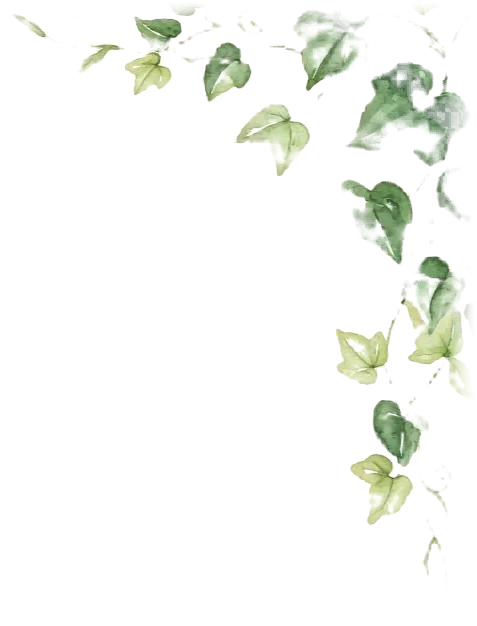
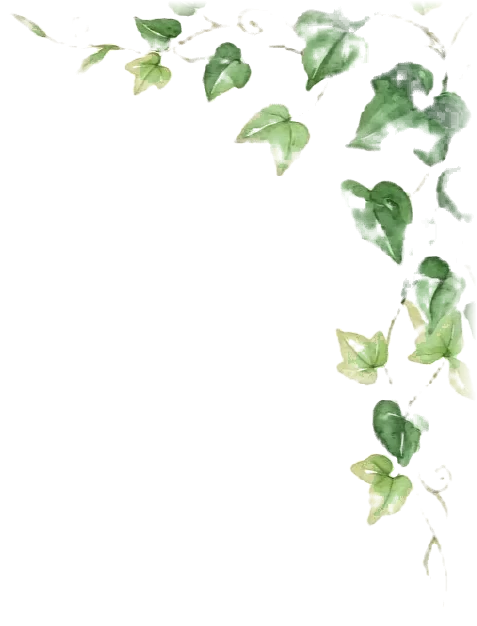
fix(herbarium): 让水彩藤蔓真正肉眼可见，首页不再缺席
用户反馈「还是没看出来」：三重削弱叠加 —— 默认档案风整块隐藏、首页被硬排除、浅绿素材再乘低 opacity 又被父层向下 mask 削一刀。本轮只把已有那一枝做实，不加元素：素材 alpha 与绿的浓度提实并羽化右缘切断的碎叶；渐隐 mask 收进花光层；贴边位置内收；opacity 上调；首页取消排除、固定最饱满的 2 号枝并单独落右下角避开手绘题图。验收：首页变化像素 3715→24460、手机 3146→9841，双主题双视口 0 pageerror，5 枝分布 4/7/5/5/5 仍全轮换。

diff --git a/src/app/globals.css b/src/app/globals.css
@@ -780,12 +780,15 @@ html[data-theme="herbarium"]:not(:has(.theme-locked)) .site-flora-field {
   z-index: -1;
   pointer-events: none;
   overflow: hidden;
-  mask-image: linear-gradient(to bottom, #000 0%, rgba(0, 0, 0, 0.6) 44%, transparent 96%);
-  -webkit-mask-image: linear-gradient(to bottom, #000 0%, rgba(0, 0, 0, 0.6) 44%, transparent 96%);
 }
+/* 向下渐隐只作用于花光那一层。原先挂在 .site-flora-field 上，会把同层的
+   压花也一起削掉：藤蔓刚好处在 4%~14% 往下 340~460px 的区间，下半截被
+   mask 压到 0.6 以下，叠上水彩本身的淡，整枝就消失在纸里了。 */
 .site-flora-plane {
   position: absolute;
   inset: 0;
+  mask-image: linear-gradient(to bottom, #000 0%, rgba(0, 0, 0, 0.6) 44%, transparent 96%);
+  -webkit-mask-image: linear-gradient(to bottom, #000 0%, rgba(0, 0, 0, 0.6) 44%, transparent 96%);
 }
 /* 复用相册页调过的 .flora-bloom-1/2 定位与浓度：主光只罩标题那一带、
    绿不与红横向重叠。第三片（104vh 的赭红）在这一屏里看不见，全站层压根不渲染。 */
@@ -827,35 +830,36 @@ html[data-theme="herbarium"]:not(:has(.theme-locked)) .herb-sprig {
   height: min(30vw, 340px);
   pointer-events: none;
   z-index: 1;
-  opacity: 0.58;
+  opacity: 0.78;
 }
 /* 5 枝长宽比差三倍（1.87 / 1.21 / 0.76 / 0.37 / 0.53）。统一塞进横框用
    contain，两根细长垂藤会被压到只剩 ~110px 宽，肉眼看等于没画。
    所以按 data-variant 给各自的框：横枝用横框、垂枝用竖框，面积预算接近。
    透明度按每枝绿像素密度反向补一点，密丛压淡、淡枝提亮，视觉重量才齐。 */
 html[data-theme="herbarium"]:not(:has(.theme-locked)) .herb-sprig[data-variant="2"] {
-  opacity: 0.5;
+  opacity: 0.7;
 }
 html[data-theme="herbarium"]:not(:has(.theme-locked)) .herb-sprig[data-variant="3"] {
   width: min(24vw, 290px);
   height: min(30vw, 360px);
-  opacity: 0.66;
+  opacity: 0.82;
 }
 html[data-theme="herbarium"]:not(:has(.theme-locked)) .herb-sprig[data-variant="4"] {
   width: min(16vw, 200px);
   height: min(34vw, 460px);
-  opacity: 0.56;
+  opacity: 0.76;
 }
 html[data-theme="herbarium"]:not(:has(.theme-locked)) .herb-sprig[data-variant="5"] {
   width: min(19vw, 250px);
   height: min(34vw, 460px);
-  opacity: 0.72;
+  opacity: 0.86;
 }
+/* 内收：原先 -1rem 贴边，加上父层 overflow:hidden，整枝有近一半被裁在视口外 */
 html[data-theme="herbarium"]:not(:has(.theme-locked)) .herb-sprig[data-side="right"] {
-  right: -1rem;
+  right: clamp(1rem, 3vw, 3.5rem);
 }
 html[data-theme="herbarium"]:not(:has(.theme-locked)) .herb-sprig[data-side="left"] {
-  left: -1rem;
+  left: clamp(1rem, 3vw, 3.5rem);
   transform: scaleX(-1);
 }
 html[data-theme="herbarium"]:not(:has(.theme-locked)) .herb-sprig[data-lift="1"] {
@@ -878,31 +882,68 @@ html[data-theme="herbarium"]:not(:has(.theme-locked)) .herb-sprig:is([data-varia
   html[data-theme="herbarium"]:not(:has(.theme-locked)) .herb-sprig {
     width: 62vw;
     height: 52vw;
-    opacity: 0.52;
+    opacity: 0.76;
   }
   html[data-theme="herbarium"]:not(:has(.theme-locked)) .herb-sprig[data-variant="2"] {
-    opacity: 0.46;
+    opacity: 0.7;
   }
   html[data-theme="herbarium"]:not(:has(.theme-locked)) .herb-sprig[data-variant="3"] {
     width: 52vw;
     height: 62vw;
-    opacity: 0.6;
+    opacity: 0.8;
   }
   html[data-theme="herbarium"]:not(:has(.theme-locked)) .herb-sprig[data-variant="4"] {
     width: 38vw;
     height: 74vw;
-    opacity: 0.5;
+    opacity: 0.74;
   }
   html[data-theme="herbarium"]:not(:has(.theme-locked)) .herb-sprig[data-variant="5"] {
     width: 46vw;
     height: 74vw;
-    opacity: 0.66;
+    opacity: 0.84;
   }
   html[data-theme="herbarium"]:not(:has(.theme-locked)) .herb-sprig[data-side="right"] {
-    right: -2rem;
+    right: 0.5rem;
   }
   html[data-theme="herbarium"]:not(:has(.theme-locked)) .herb-sprig[data-side="left"] {
-    left: -2rem;
+    left: 0.5rem;
+  }
+}
+
+/* 首页单独落位：手绘题图的藤蔓从左下斜穿到右上，右下角是唯一干净的纸面。
+   放在首屏偏下，既不压字标，也避开题图自带的粉晕（左侧）与绿藤（中右）。 */
+html[data-theme="herbarium"]:not(:has(.theme-locked)) .herb-sprig[data-home="1"] {
+  top: auto;
+  bottom: 4%;
+  right: 5vw;
+  left: auto;
+  width: min(30vw, 400px);
+  height: min(28vw, 350px);
+  transform: none;
+  opacity: 0.8;
+}
+/* 2 号枝右缘那列被画幅切断的碎叶，已在素材生成脚本里羽化到真透明
+   （_sprig_boost.cjs 的 RIGHT_FEATHER），这里只需把图压到框底。 */
+html[data-theme="herbarium"]:not(:has(.theme-locked)) .herb-sprig[data-home="1"] img {
+  object-position: center bottom;
+  /* 素材右缘已羽化，但 contain 缩放后最右仍有一列浅影，
+     再从 74% 起柔收到透明，保证纸面上无直边。 */
+  mask-image: linear-gradient(to right, #000 74%, transparent 98%);
+  -webkit-mask-image: linear-gradient(to right, #000 74%, transparent 98%);
+}
+@media (max-width: 640px) {
+  html[data-theme="herbarium"]:not(:has(.theme-locked)) .herb-sprig[data-home="1"] {
+    bottom: 3%;
+    right: 3vw;
+    width: 62vw;
+    height: 56vw;
+    opacity: 0.76;
+  }
+  /* 手机首屏被正文占满，2 号枝顶端的散叶会飘进段落里。斜向渐隐只留
+     右下那丛密叶，左上完全退场，右缘也不会出现直边。 */
+  html[data-theme="herbarium"]:not(:has(.theme-locked)) .herb-sprig[data-home="1"] img {
+    mask-image: linear-gradient(135deg, transparent 0%, rgba(0, 0, 0, 0.35) 32%, #000 62%);
+    -webkit-mask-image: linear-gradient(135deg, transparent 0%, rgba(0, 0, 0, 0.35) 32%, #000 62%);
   }
 }
 

diff --git a/src/components/HerbariumSprig.tsx b/src/components/HerbariumSprig.tsx
@@ -45,7 +45,7 @@ function mix32(x: number): number {
 }
 
 function excluded(pathname: string): boolean {
-  if (pathname === "/" || pathname.startsWith("/admin")) return true;
+  if (pathname.startsWith("/admin")) return true;
   if (/^\/atlas\/[^/]+/.test(pathname)) return true; // 含 /atlas/[id]/[subId]
   if (pathname.includes("ATLAS-HZ")) return true;
   return false;
@@ -55,18 +55,25 @@ export function HerbariumSprig() {
   const pathname = usePathname() || "/";
   if (excluded(pathname)) return null;
 
+  // 首页曾整页排除（怕和手绘题图抢），结果用户打开站点第一眼永远看不到藤蔓。
+  // 改为照常挂一枝，但由 CSS 单独放到右下角（题图藤蔓从左下斜上到右上，
+  // 右下是干净纸面），且首页不参与留白 —— 切到草木风就该立刻看见。
+  const isHome = pathname === "/";
   const h = mix32(hashPath(pathname));
-  if (h % 4 === 0) return null; // 留四分之一的页面干干净净
+  if (!isHome && h % 4 === 0) return null; // 留四分之一的页面干干净净
 
   // 三项各用一份带盐的混合值，避免留白 / 枝号 / 左右互相相关。
   // 枝号走「高位分桶」而不是 % 5：对这批同前缀 URL，取模仍会让 4 号扎堆
   // （实测 9 次 vs 5 号 2 次）。_sprig_hash.cjs 离线枚举过真实路由集合，
   // 这组参数得到 5 枝 [4,6,4,5,5]、留白 7/31、左右 11/13。
-  const variant =
-    Math.floor(
-      (mix32(hashPath(`${pathname}|variant`) ^ 0x9e3779b9) / 4294967296) * SPRIG_COUNT
-    ) + 1;
-  const side = mix32(hashPath(`${pathname}|side`)) % 2 ? "right" : "left";
+  // 首页固定用 2 号（最饱满的密丛，可见像素 21%）。哈希轮到的 5 号是细长
+  // 垂枝（仅 9.7%），放进首屏右下那个框里只剩一根线，等于没画。
+  const variant = isHome
+    ? 2
+    : Math.floor(
+        (mix32(hashPath(`${pathname}|variant`) ^ 0x9e3779b9) / 4294967296) * SPRIG_COUNT
+      ) + 1;
+  const side = isHome ? "right" : mix32(hashPath(`${pathname}|side`)) % 2 ? "right" : "left";
   const lift = mix32(hashPath(`${pathname}|lift`)) % 3;
 
   return (
@@ -75,6 +82,7 @@ export function HerbariumSprig() {
       data-variant={variant}
       data-side={side}
       data-lift={lift}
+      data-home={isHome ? "1" : undefined}
       aria-hidden="true"
     >
       {/* eslint-disable-next-line @next/next/no-img-element */}
